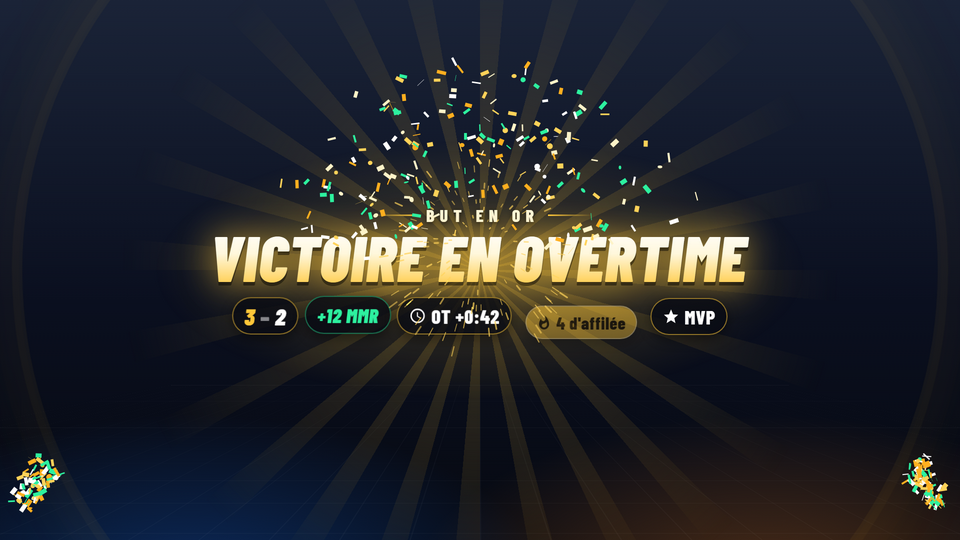
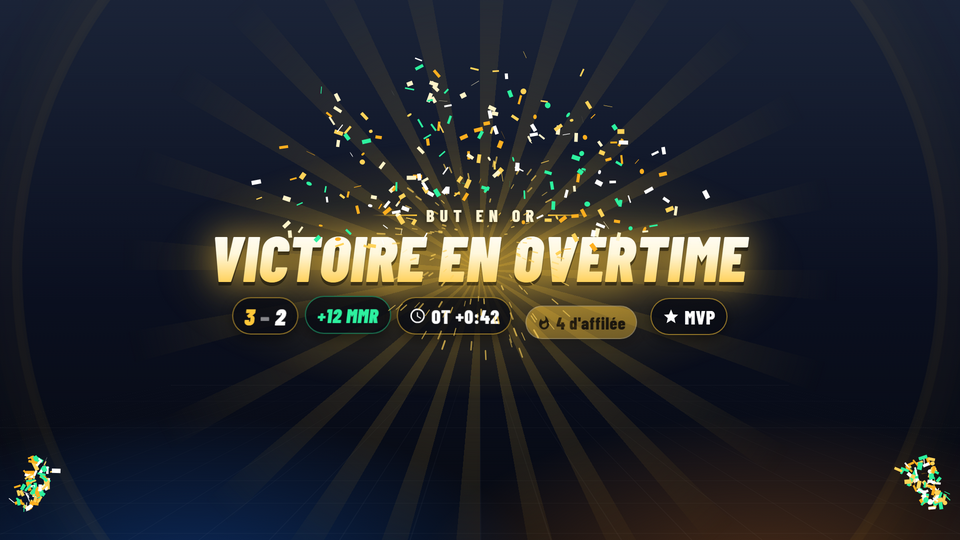
Nouveau nom : RL-UI ; images de présentation corrigées

diff --git a/web/dashboard/index.html b/web/dashboard/index.html
@@ -4,7 +4,7 @@
     <meta charset="utf-8" />
     <meta name="ot-key" content="{{KEY}}" />
     <meta name="viewport" content="width=device-width, initial-scale=1" />
-    <title>BoostSide</title>
+    <title>RL-UI</title>
     <link rel="icon" href="/static/assets/icon.png" />
     <link rel="stylesheet" href="/static/shared/fonts.css" />
     <link rel="stylesheet" href="/static/dashboard/style.css" />
@@ -13,7 +13,7 @@
     <header class="topbar">
       <div class="brand">
         <img src="/static/assets/icon.png" alt="" />
-        <span class="logo">Boost<em>Side</em></span>
+        <span class="logo">RL<em>-UI</em></span>
         <span class="brand-sub">par Zoxam</span>
       </div>
       <div class="chips" id="statusChips"></div>
@@ -29,7 +29,7 @@
         <button data-tab="settings"><svg viewBox="0 0 24 24"><path d="M19.4 13a7.5 7.5 0 000-2l2.1-1.6-2-3.5-2.5 1a7.3 7.3 0 00-1.7-1L15 3.3h-4l-.4 2.6a7.3 7.3 0 00-1.7 1l-2.5-1-2 3.5L6.6 11a7.5 7.5 0 000 2l-2.1 1.6 2 3.5 2.5-1a7.3 7.3 0 001.7 1l.4 2.6h4l.4-2.6a7.3 7.3 0 001.7-1l2.5 1 2-3.5zM13 15.5a3.5 3.5 0 110-7 3.5 3.5 0 010 7z" transform="translate(-1 0)" /></svg>Réglages</button>
         <button data-tab="help"><svg viewBox="0 0 24 24"><path d="M12 2a10 10 0 100 20 10 10 0 000-20zm1 17h-2v-2h2v2zm2.1-7.7l-.9.9A3.4 3.4 0 0013 15h-2v-.5a4 4 0 011.2-2.8l1.2-1.3A2 2 0 0014 9a2 2 0 00-4 0H8a4 4 0 118 0 3.2 3.2 0 01-.9 2.3z" /></svg>Aide</button>
         <div class="side-foot">
-          <div id="versionInfo">BoostSide</div>
+          <div id="versionInfo">RL-UI</div>
           <div id="portInfo" class="muted"></div>
         </div>
       </nav>
@@ -438,7 +438,7 @@
             <details><summary>Setup avec 2 PC</summary><p>Active « Accessible depuis le réseau local » (Réglages → Serveur local) et utilise l'adresse IP du PC de jeu dans les URL des overlays sur le PC de stream. Autorise l'app dans le pare-feu Windows si demandé.</p></details>
             <details><summary>Je joue en duo, ça compte bien pour moi ?</summary><p>Oui : l'app suit ton compte à toi (l'ID Steam/Epic lu dans le journal du jeu), pas celui de ton mate.</p></details>
             <details><summary>D'où vient le MMR ?</summary><p>Du journal du jeu : quand tu lances une recherche de partie (seul ou chef de groupe), Rocket League y écrit ton MMR pour ce mode. La variation d'un match est donc connue à la recherche suivante ; en attendant, l'app affiche une estimation basée sur tes vraies variations récentes (marquée ≈ dans le tableau de bord). Si c'est ton mate qui lance la recherche, seule l'estimation est disponible.</p></details>
-            <p class="legal">BoostSide — créé par Zoxam. Non affilié à Psyonix LLC ni à Epic Games, Inc. Rocket League est une marque de Psyonix LLC. Tout fonctionne en local : aucune donnée n'est envoyée sur Internet.</p>
+            <p class="legal">RL-UI — créé par Zoxam. Non affilié à Psyonix LLC ni à Epic Games, Inc. Rocket League est une marque de Psyonix LLC. Tout fonctionne en local : aucune donnée n'est envoyée sur Internet.</p>
           </div>
         </section>
       </main>

diff --git a/electron/main.js b/electron/main.js
@@ -8,12 +8,12 @@ const { Core } = require('../core');
 const { migrateLegacyData } = require('./migrate');
 const pkg = require('../package.json');
 
-// Dossier de données alternatif (tests) : BOOSTSIDE_DATA=C:\chemin
-if (process.env.BOOSTSIDE_DATA) app.setPath('userData', process.env.BOOSTSIDE_DATA);
+// Dossier de données alternatif (tests) : RLUI_DATA=C:\chemin
+if (process.env.RLUI_DATA) app.setPath('userData', process.env.RLUI_DATA);
 
 // Reprise des données de l'ancienne version (nom de code "Overtime Tracker")
 function migrateLegacy() {
-  if (process.env.BOOSTSIDE_DATA) return false;
+  if (process.env.RLUI_DATA) return false;
   return migrateLegacyData(path.join(app.getPath('appData'), 'Overtime Tracker'), app.getPath('userData'));
 }
 
@@ -21,7 +21,7 @@ if (!app.requestSingleInstanceLock()) {
   app.quit();
   process.exit(0);
 }
-app.setAppUserModelId('com.zoxam.boostside');
+app.setAppUserModelId('com.zoxam.rlui');
 
 const ICON = path.join(__dirname, '..', 'web', 'assets', 'icon.png');
 const isDev = !app.isPackaged;
@@ -39,7 +39,7 @@ function createWindow(show = true) {
     minWidth: 980,
     minHeight: 640,
     show: false,
-    title: 'BoostSide',
+    title: 'RL-UI',
     icon: ICON,
     backgroundColor: '#070a12',
     titleBarStyle: 'hidden',
@@ -72,7 +72,7 @@ function createWindow(show = true) {
     if (!core.store.settings.app.trayHintShown && tray) {
       tray.displayBalloon({
         iconType: 'info',
-        title: 'BoostSide tourne toujours',
+        title: 'RL-UI tourne toujours',
         content: 'Le tracking continue en arrière-plan. Clic droit sur l\'icône pour quitter.',
       });
       core.store.patchSettings({ app: { trayHintShown: true } });
@@ -94,7 +94,7 @@ function updateTray() {
   if (!tray) return;
   const st = core.sessionStats();
   const s = core.store.settings;
-  tray.setToolTip(`BoostSide — ${st.wins}V - ${st.losses}D${s.paused ? ' (pause)' : ''}`);
+  tray.setToolTip(`RL-UI — ${st.wins}V - ${st.losses}D${s.paused ? ' (pause)' : ''}`);
   tray.setContextMenu(
     Menu.buildFromTemplate([
       { label: `Session : ${st.wins}V - ${st.losses}D${st.played ? ` (${st.winRate}%)` : ''}`, enabled: false },
@@ -165,7 +165,7 @@ app.whenReady().then(async () => {
   try {
     await core.start();
   } catch (e) {
-    dialog.showErrorBox('BoostSide', `Impossible de démarrer le serveur local des overlays :\n${e.message}`);
+    dialog.showErrorBox('RL-UI', `Impossible de démarrer le serveur local des overlays :\n${e.message}`);
     quitting = true;
     app.quit();
     return;

diff --git a/tools/headless.js b/tools/headless.js
@@ -2,7 +2,7 @@
 'use strict';
 // Lance le tracker sans Electron (tests, ou PC de stream sans interface).
 //   node tools/headless.js
-// Variables : BOOSTSIDE_DATA (dossier des données), BOOSTSIDE_DOCS (dossier Documents), BOOSTSIDE_LOG (chemin de Launch.log)
+// Variables : RLUI_DATA (dossier des données), RLUI_DOCS (dossier Documents), RLUI_LOG (chemin de Launch.log)
 
 const os = require('os');
 const path = require('path');
@@ -10,13 +10,13 @@ const { execFile } = require('child_process');
 const { Core } = require('../core');
 const pkg = require('../package.json');
 
-const dataDir = process.env.BOOSTSIDE_DATA || path.join(process.env.APPDATA || os.homedir(), 'BoostSide');
-const documentsDir = process.env.BOOSTSIDE_DOCS || path.join(os.homedir(), 'Documents');
+const dataDir = process.env.RLUI_DATA || path.join(process.env.APPDATA || os.homedir(), 'RL-UI');
+const documentsDir = process.env.RLUI_DOCS || path.join(os.homedir(), 'Documents');
 
 const core = new Core({
   dataDir,
   documentsDir,
-  logPath: process.env.BOOSTSIDE_LOG || undefined,
+  logPath: process.env.RLUI_LOG || undefined,
   webDir: path.join(__dirname, '..', 'web'),
   version: pkg.version,
   hooks: {
@@ -28,7 +28,7 @@ const core = new Core({
 core
   .start()
   .then((port) => {
-    console.log(`BoostSide (sans interface) — tableau de bord : http://127.0.0.1:${port}/`);
+    console.log(`RL-UI (sans interface) — tableau de bord : http://127.0.0.1:${port}/`);
     console.log(`Données : ${dataDir}`);
   })
   .catch((e) => {

diff --git a/web/dashboard/app.js b/web/dashboard/app.js
@@ -1,4 +1,4 @@
-// Tableau de bord BoostSide
+// Tableau de bord RL-UI
 (function () {
   const KEY = document.querySelector('meta[name="ot-key"]').content;
   const $ = (s, r = document) => r.querySelector(s);
@@ -136,7 +136,7 @@
     $$('.side button').forEach((b) => b.classList.toggle('active', b.dataset.tab === name));
     $$('.tab').forEach((t) => t.classList.toggle('active', t.id === `tab-${name}`));
     try {
-      localStorage.setItem('bs-tab', name);
+      localStorage.setItem('rlui-tab', name);
     } catch {}
     if (name === 'history') loadHistory();
     if (name === 'stream') layoutPreviews();
@@ -387,7 +387,7 @@
 
     let tab = 'session';
     try {
-      tab = localStorage.getItem('bs-tab') || 'session';
+      tab = localStorage.getItem('rlui-tab') || 'session';
     } catch {}
     if (!$(`#tab-${tab}`)) tab = 'session';
     showTab(tab);
@@ -428,7 +428,7 @@
     if (D.live && D.live.inMatch && D.live.overtime) out.push('<span class="chip ot"><b>OVERTIME</b></span>');
     $('#statusChips').innerHTML = out.join('');
     $('#pauseBtn').textContent = D.settings.paused ? 'Reprendre' : 'Pause';
-    $('#versionInfo').textContent = `BoostSide ${D.version} · par Zoxam`;
+    $('#versionInfo').textContent = `RL-UI ${D.version} · par Zoxam`;
     $('#portInfo').textContent = `Serveur : port ${D.port}`;
   }
 

diff --git a/test/migrate.test.js b/test/migrate.test.js
@@ -7,9 +7,9 @@ const path = require('path');
 const { migrateLegacyData } = require('../electron/migrate');
 
 test('reprise des données de l\'ancienne version', () => {
-  const root = fs.mkdtempSync(path.join(os.tmpdir(), 'bs-migrate-'));
+  const root = fs.mkdtempSync(path.join(os.tmpdir(), 'rlui-migrate-'));
   const legacy = path.join(root, 'Overtime Tracker');
-  const dest = path.join(root, 'BoostSide');
+  const dest = path.join(root, 'RL-UI');
   // rien à reprendre
   assert.strictEqual(migrateLegacyData(legacy, dest), false);
   fs.mkdirSync(path.join(legacy, 'sounds'), { recursive: true });
@@ -18,7 +18,7 @@ test('reprise des données de l\'ancienne version', () => {
   assert.strictEqual(migrateLegacyData(legacy, dest), true);
   assert.strictEqual(fs.readFileSync(path.join(dest, 'data.json'), 'utf8'), '{"matches":[{"id":"a"}]}');
   assert.ok(fs.existsSync(path.join(dest, 'sounds', 'win.mp3')));
-  // une seule fois : les données de BoostSide ne sont jamais écrasées
+  // une seule fois : les données de RL-UI ne sont jamais écrasées
   fs.writeFileSync(path.join(legacy, 'data.json'), '{"matches":[]}');
   assert.strictEqual(migrateLegacyData(legacy, dest), false);
   assert.match(fs.readFileSync(path.join(dest, 'data.json'), 'utf8'), /"a"/);

diff --git a/core/index.js b/core/index.js
@@ -61,7 +61,7 @@ class Core extends EventEmitter {
     this._checkRunning();
     this._rlTimer = setInterval(() => this._checkRunning(), 5000);
     this._writeText();
-    this.log(`BoostSide prêt — http://127.0.0.1:${port}`);
+    this.log(`RL-UI prêt — http://127.0.0.1:${port}`);
     return port;
   }
 
@@ -235,7 +235,7 @@ class Core extends EventEmitter {
   log(msg, level = 'info') {
     this.logs.push({ at: Date.now(), msg, level });
     if (this.logs.length > 200) this.logs.splice(0, this.logs.length - 200);
-    if (process.env.BOOSTSIDE_DEBUG) console.log(`[${level}] ${msg}`);
+    if (process.env.RLUI_DEBUG) console.log(`[${level}] ${msg}`);
     this._changed();
   }
 
@@ -291,7 +291,7 @@ class Core extends EventEmitter {
     const strip = (e) => e && { playlist: e.playlist, name: e.name, short: e.short, current: e.current, delta: e.delta, games: e.games, approx: e.approx };
     const mmr = this.mmrSummary(live);
     return {
-      app: { name: 'BoostSide', version: this.version },
+      app: { name: 'RL-UI', version: this.version },
       session: {
         id: this.store.session.id,
         startedAt: this.store.session.startedAt,

diff --git a/tools/make-icon.js b/tools/make-icon.js
@@ -24,8 +24,8 @@ const svg = `
     <polygon points="330,0 374,0 182,512 138,512" fill="#0a0f1d"/>
     <rect width="512" height="512" fill="url(#t)" opacity="0.06"/>
   </g>
-  <text x="266" y="372" text-anchor="middle" font-family="BC" font-weight="900" font-style="italic" font-size="340"
-        fill="url(#t)" stroke="#0a0f1d" stroke-width="18" paint-order="stroke" letter-spacing="0">B</text>
+  <text x="262" y="352" text-anchor="middle" font-family="BC" font-weight="900" font-style="italic" font-size="300"
+        fill="url(#t)" stroke="#0a0f1d" stroke-width="18" paint-order="stroke" letter-spacing="-4">RL</text>
 </svg>`;
 
 const html = `<!doctype html><html><head><style>
@@ -36,7 +36,7 @@ svg { display: block; }
 
 app.disableHardwareAcceleration();
 app.whenReady().then(async () => {
-  const tmp = path.join(os.tmpdir(), `boostside-icon-${Date.now()}.html`);
+  const tmp = path.join(os.tmpdir(), `rl-ui-icon-${Date.now()}.html`);
   fs.writeFileSync(tmp, html);
   const win = new BrowserWindow({ width: 512, height: 512, show: false, transparent: true, frame: false, useContentSize: true, webPreferences: { offscreen: true } });
   let frame = null;

diff --git a/tools/banner.html b/tools/banner.html
@@ -20,7 +20,7 @@ p{margin:14px 0 0;font-weight:700;font-size:30px;color:#c9d4e6;letter-spacing:.0
 .g{color:#2ef2a0;text-shadow:0 0 24px rgba(46,242,160,.5)}.r{color:#ff4d6d;text-shadow:0 0 24px rgba(255,77,109,.5)}
 .s{border-left:1px solid rgba(255,255,255,.1);padding:0 20px;text-align:center}.s b{display:block;font-weight:800;font-style:italic;font-size:42px}.s i{font-style:normal;font-weight:700;font-size:14px;letter-spacing:.14em;opacity:.6}
 </style></head><body>
-<div class="l"><img src="../web/assets/icon.png"><div><h1>Boost<span>Side</span></h1><p>Overlay de stream pour Rocket League</p></div></div>
+<div class="l"><img src="../web/assets/icon.png"><div><h1>RL<span>-UI</span></h1><p>Overlay de stream pour Rocket League</p></div></div>
 <div class="tags"><b class="w">VICTOIRE</b><b class="l2">DÉFAITE</b><b class="ot">OVERTIME</b><b>MMR +x / −x</b><b>OBS · Streamlabs</b></div>
 <div class="card"><span class="n g">12<small>V</small></span><span class="n" style="opacity:.3">/</span><span class="n r">5<small>D</small></span><div class="s"><b>71%</b><i>WINRATE</i></div><div class="s"><b class="g">+37</b><i>MMR</i></div></div>
 </body></html>

diff --git a/tools/e2e.js b/tools/e2e.js
@@ -15,7 +15,7 @@ const args = process.argv.slice(2);
 const transport = args.includes('--transport') ? args[args.indexOf('--transport') + 1] : 'auto';
 const asObject = args.includes('--object');
 
-const tmp = fs.mkdtempSync(path.join(os.tmpdir(), 'boostside-e2e-'));
+const tmp = fs.mkdtempSync(path.join(os.tmpdir(), 'rl-ui-e2e-'));
 const docs = path.join(tmp, 'docs');
 const cfgDir = path.join(docs, 'My Games', 'Rocket League', 'TAGame', 'Config');
 const logDir = path.join(docs, 'My Games', 'Rocket League', 'TAGame', 'Logs');
@@ -44,7 +44,7 @@ const fail = (msg) => {
 };
 const ok = (cond, msg) => (cond ? console.log(`✔ ${msg}`) : fail(msg));
 
-const env = { ...process.env, BOOSTSIDE_DATA: dataDir, BOOSTSIDE_DOCS: docs };
+const env = { ...process.env, RLUI_DATA: dataDir, RLUI_DOCS: docs };
 const app = spawn(process.execPath, [path.join(root, 'tools', 'headless.js')], { env, stdio: ['ignore', 'pipe', 'pipe'] });
 let appOut = '';
 app.stdout.on('data', (d) => (appOut += d));

diff --git a/core/rlConfig.js b/core/rlConfig.js
@@ -189,7 +189,7 @@ function writeStatsValues(file, rate) {
 // Écriture avec élévation (UAC) si le dossier du jeu est protégé
 function writeElevated(file, text) {
   return new Promise((resolve) => {
-    const tmp = path.join(os.tmpdir(), `boostside-statsapi-${Date.now()}.ini`);
+    const tmp = path.join(os.tmpdir(), `rl-ui-statsapi-${Date.now()}.ini`);
     fs.writeFileSync(tmp, text, 'latin1');
     const q = (s) => `'${String(s).replace(/'/g, "''")}'`;
     const inner = `Copy-Item -LiteralPath ${q(tmp)} -Destination ${q(file)} -Force`;

diff --git a/electron/migrate.js b/electron/migrate.js
@@ -1,5 +1,5 @@
 'use strict';
-// Reprise des données de l'ancienne version (nom de code "Overtime Tracker") au premier lancement de BoostSide.
+// Reprise des données de l'ancienne version (nom de code "Overtime Tracker") au premier lancement de RL-UI.
 const fs = require('fs');
 const path = require('path');
 

diff --git a/web/overlay/history.html b/web/overlay/history.html
@@ -2,7 +2,7 @@
 <html lang="fr">
   <head>
     <meta charset="utf-8" />
-    <title>BoostSide — Dernières parties</title>
+    <title>RL-UI — Dernières parties</title>
     <link rel="stylesheet" href="/static/shared/overlay.css" />
     <style>
       body { padding: calc(14px * var(--s)); display: flex; }
